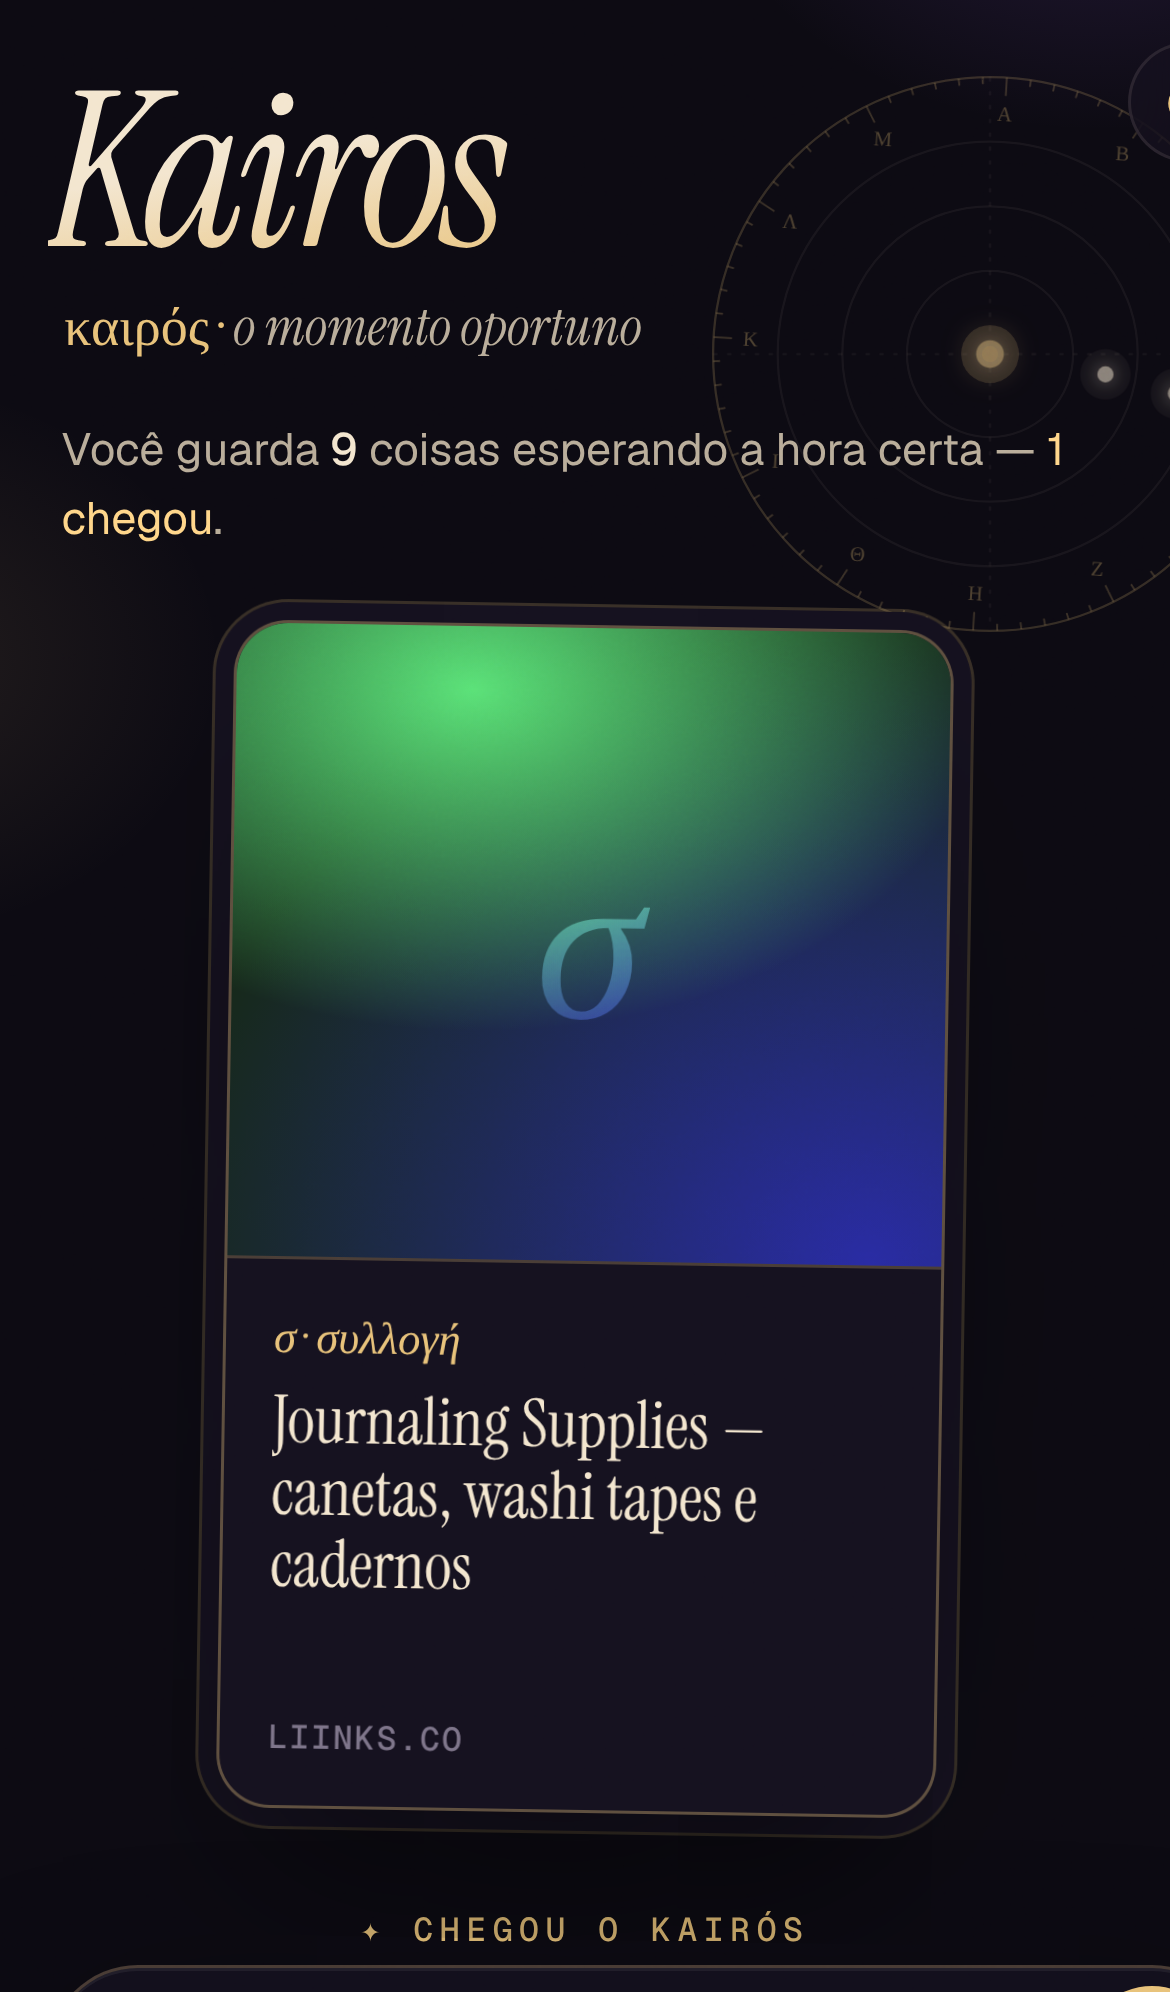
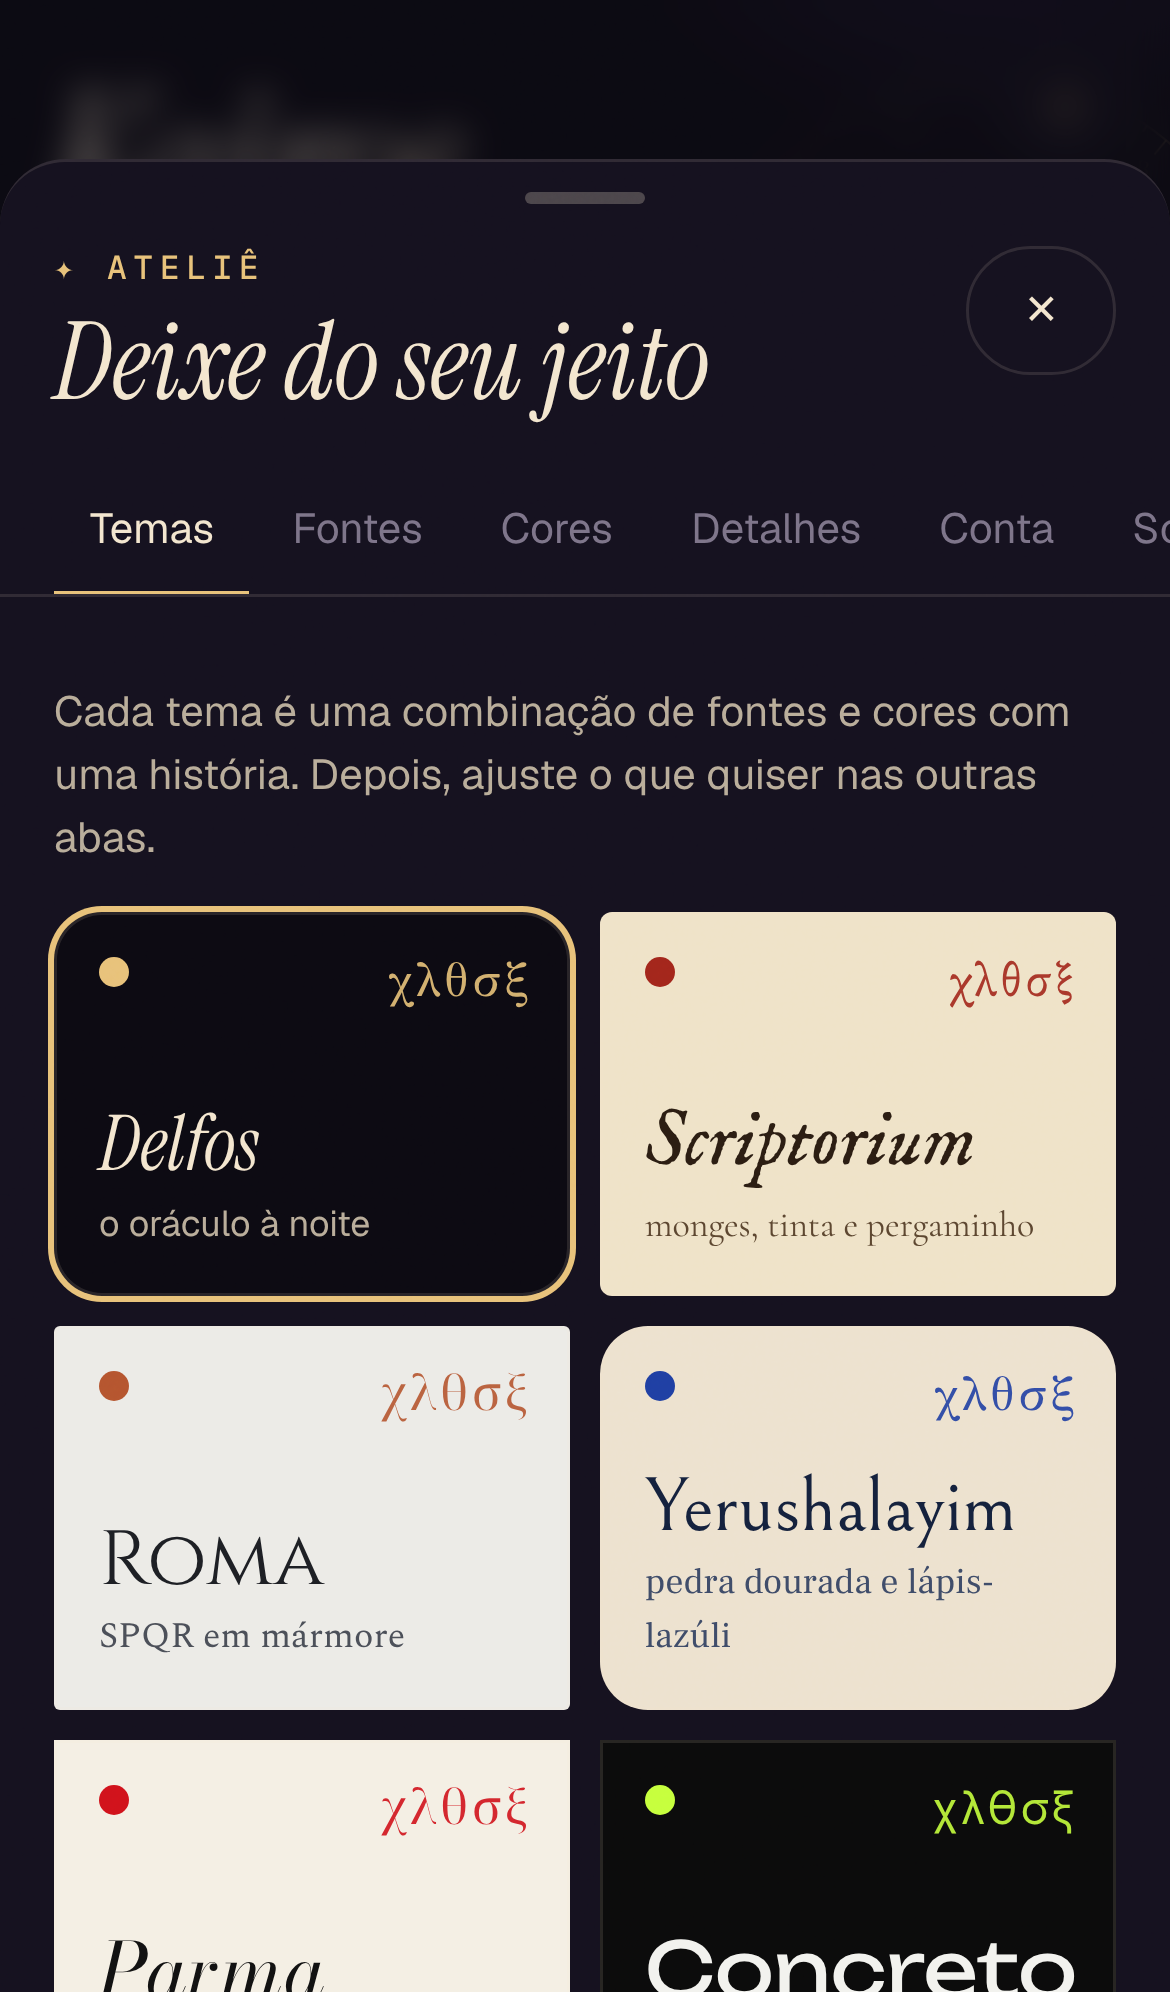
docs: sincronização, releases e Ateliê no README
Claude-Session: https://claude.ai/code/session_01Jh1DhLfu7fXB1j5bC6K65X

diff --git a/README.md b/README.md
@@ -1,50 +1,90 @@
 # Kairos · καιρός
 
 > *Chronos* é o tempo que passa. *Kairos* é o momento certo.
-> Um lugar pra guardar links — compras, leituras, vídeos, coleções — e recebê-los de volta na hora oportuna.
+> Guarde links — compras, leituras, vídeos, coleções — e receba cada um de volta na hora oportuna.
 
-<p align="center"><img src="docs/desktop.png" width="70%"> <img src="docs/mobile.png" width="22%"></p>
+<p align="center"><img src="docs/desktop.png" width="49%"> <img src="docs/atelier.png" width="49%"></p>
+<p align="center"><img src="docs/scriptorium.png" width="49%"> <img src="docs/neon.png" width="49%"></p>
 
 ## O que faz
 
 | | |
 |---|---|
-| **Guardar sem atrito** | Ctrl+V em qualquer lugar da tela · arrastar o link pra janela · botão **+** lê a área de transferência · no Android aparece no menu *Compartilhar* · favorito (bookmarklet) no desktop |
-| **Ver sem abrir** | Busca a thumbnail, título, descrição, site e preço (Open Graph). Sem imagem? Gera uma arte única a partir do domínio. |
-| **Classifica sozinho** | Cada categoria tem um sigilo grego: **χ** χρῆμα (desejos/compras) · **λ** λόγος (leituras) · **θ** θέα (vídeos) · **σ** συλλογή (coleções tipo liinks.co) · **ξ** ξένος (outros) |
-| **Me lembre** | hoje à noite, amanhã, 2 dias, fim de semana, 1 semana, 1 mês ou data livre. Notificação no app + **.ics** pro calendário nativo (toca mesmo com o app fechado). |
-| **O oráculo** | Toda vez que você abre, uma carta vira com algo diferente esperando por você. Lembretes vencidos têm prioridade; links mais antigos têm mais chance. |
-| **O astrolábio** | Cada lembrete é um astro. Quanto mais perto do centro, mais perto da hora. |
+| **Guardar sem atrito** | Ctrl+V em qualquer lugar · arrastar o link pra janela · botão **+** · menu *Compartilhar* do Android · favorito no desktop |
+| **Ver sem abrir** | Thumbnail, título, descrição, site e preço (Open Graph). Sem imagem, gera uma arte do domínio. |
+| **Sigilos gregos** | **χ** χρῆμα (desejos) · **λ** λόγος (leituras) · **θ** θέα (vídeos) · **σ** συλλογή (coleções) · **ξ** ξένος (outros) |
+| **Me lembre** | hoje à noite · amanhã · 2 dias · fim de semana · 1 semana · 1 mês · data livre — notificação + `.ics` pro calendário |
+| **Oráculo** | Uma carta diferente a cada abertura. Lembretes vencidos primeiro; os mais antigos têm mais chance. |
+| **Astrolábio** | Cada lembrete é um astro: quanto mais perto do centro, mais perto da hora. |
+| **Ateliê** | 11 temas, 61 fontes em 4 papéis, 10 paletas, cor livre, qualquer fonte do Google Fonts pelo nome, densidade, inclinação, cantos, tamanho, animações, nome do app. |
+| **Sincronização** | Entre com Google (ou link por e-mail) e tudo — links, lembretes e aparência — fica igual no celular e no computador. |
+| **Atualiza sozinho** | Versão nova baixa em silêncio, troca quando você não está olhando e mostra as novidades. |
 
 ## Rodar
 
 ```bash
 npm install
-npm run dev        # http://localhost:5173 (também acessível pelo celular na mesma rede)
+cp .env.example .env.local   # opcional: só para a sincronização
+npm run dev                  # http://localhost:5173
+npm test
 npm run build
 ```
 
-**Publicar:** importe o repositório na Vercel — ela detecta o Vite e transforma `api/preview.ts` em função serverless automaticamente. Depois, no celular, abra o site e "Adicionar à tela inicial".
+Sem `.env.local`, o app funciona 100% local (IndexedDB), só sem sincronizar.
 
-## Decisões
+## Sincronização (Supabase)
 
-- **PWA, não app nativo.** Um código só pra celular e desktop, instalável, funciona offline, entra no menu de compartilhar do Android.
-- **Local-first (IndexedDB).** Abre instantâneo, sem login, sem servidor de dados. Exportar/importar JSON leva os dados entre aparelhos.
-- **Prévia no servidor** (`server/preview.ts`), porque o navegador não pode ler HTML de outros sites (CORS). Cai pro Microlink se falhar; YouTube usa a thumbnail direta.
-- **Lembrete em duas camadas.** Notificação web funciona com o app aberto/em segundo plano; o `.ics` garante o alarme do sistema. Push com o app fechado de verdade exige backend — fica pro próximo passo.
+**Por que Supabase e não Firebase/Google Drive:** Postgres de verdade, login com Google pronto, tempo real, plano grátis generoso, código aberto (dá pra sair quando quiser) e — o motivo decisivo — agenda tarefas no servidor (`pg_cron` + Edge Functions) de graça, que é o caminho para o lembrete chegar com o app fechado. No Firebase isso exige plano pago.
 
-## Próximos passos
+**Como funciona:** *local-first*. Tudo é salvo primeiro no aparelho; a nuvem só reconcilia. Conflito entre aparelhos: vence a edição mais recente (o servidor também ignora escritas antigas). Apagar vira "lápide" para propagar. Mudanças chegam nos outros aparelhos em tempo real.
 
-1. **Sincronização entre aparelhos** (Supabase ou similar: login por link mágico + push real).
-2. Extensão de navegador / atalho do iOS pra compartilhar no iPhone.
-3. Coleções manuais ("presentes pra mãe", "setup do escritório").
+**Configurar (uma vez, ~10 min):**
+
+1. Crie um projeto em [supabase.com](https://supabase.com).
+2. **SQL Editor** → cole e rode [`supabase/migrations/0001_init.sql`](supabase/migrations/0001_init.sql).
+3. **Project Settings → API**: copie *Project URL* e a chave *anon* para `.env.local` (e nas variáveis de ambiente da Vercel).
+4. **Authentication → URL Configuration**: em *Site URL* e *Redirect URLs*, coloque o endereço do app (ex.: `https://kairos.vercel.app`) e `http://localhost:5173`.
+5. **Login com Google:** no [Google Cloud Console](https://console.cloud.google.com/apis/credentials) crie um *OAuth client ID* (Web), com *Authorized redirect URI* = `https://SEU-PROJETO.supabase.co/auth/v1/callback`. Cole o Client ID e o Secret em **Authentication → Providers → Google**.
+6. O login por e-mail (link mágico) já vem ligado.
+
+## Versões, commits e releases
+
+Versionamento semântico automático a partir das mensagens de commit ([Conventional Commits](https://www.conventionalcommits.org/pt-br)):
+
+| commit | exemplo | versão |
+|---|---|---|
+| `fix:` | `fix(preview): thumbnail do Instagram` | 0.2.**1** |
+| `feat:` | `feat(atelier): fontes hebraicas` | 0.**3**.0 |
+| `feat!:` ou `BREAKING CHANGE:` | `feat!: novo formato de dados` | **1**.0.0 |
+| `docs:` `chore:` `refactor:` `test:` `ci:` | — | não gera versão |
+
+- **Hook local** (`.githooks/commit-msg`, ativado no `npm install`) recusa mensagens fora do padrão.
+- **CI** roda testes e build em todo PR e push na `main`; o título do PR também é validado.
+- **release-please** mantém um PR de release com a próxima versão e o `CHANGELOG.md`. Merge nele → tag `vX.Y.Z` + Release no GitHub.
+- **Vercel** publica a `main` → o app instalado se atualiza sozinho e mostra as notas da versão (lidas do `CHANGELOG.md`).
+
+## Publicar
+
+Importe o repositório na Vercel (detecta Vite; `api/preview.ts` vira função serverless). Defina `VITE_SUPABASE_URL` e `VITE_SUPABASE_ANON_KEY`. No celular: abrir o site → "Adicionar à tela inicial".
 
 ## Estrutura
 
 ```
-server/preview.ts   extrai metadados de uma URL (usado no dev e na Vercel)
-api/preview.ts      função serverless GET /api/preview?url=
-src/model.ts        tipos, categorias, banco local, lembretes, .ics, prévia
-src/App.tsx         interface: astrolábio, oráculo, mural, painel, barra
-src/styles.css      todo o visual
+server/preview.ts        extrai metadados de uma URL (dev e Vercel)
+api/preview.ts           função serverless GET /api/preview?url=
+src/model.ts             tipos, categorias, banco local, lembretes, .ics, prévia
+src/sync.ts · merge.ts   sincronização Supabase (login, puxa/empurra, tempo real)
+src/update.ts            atualização automática + notas da versão
+src/fonts.ts             catálogo tipográfico (61 fontes verificadas, suporte a grego/hebraico)
+src/prefs.ts             paletas, temas, preferências
+src/Atelier.tsx          painel de personalização
+src/App.tsx              astrolábio, oráculo, mural, painel do item, barra
+supabase/migrations/     esquema do banco + segurança por usuário (RLS)
+tests/                   node --test
 ```
+
+## Próximos passos
+
+1. Lembrete com o app **fechado** via Web Push (Supabase Edge Function + `pg_cron`).
+2. Atalho do iOS para compartilhar no iPhone.
+3. Coleções manuais ("presentes", "setup do escritório").
